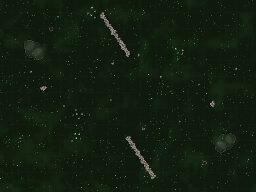
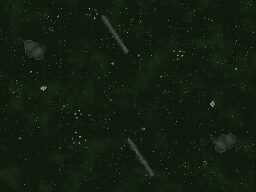
Ridges become walls, fire becomes a lever, Exodus Road becomes the first corridor

diff --git a/game.js b/game.js
@@ -608,6 +608,59 @@ const MAPS = {
     spires: [[W * 0.44, H * 0.33, 26], [W * 0.56, H * 0.67, 26], [W * 0.25, H * 0.55, 22]],
     pits: [[W * 0.20, H * 0.15, 32], [W * 0.80, H * 0.85, 32]],
   },
+  exodus: {
+    label: 'Exodus Road',
+    desc: 'One road through the drowned dark. Water walls, ridge bluffs, fields of fire — the only way out is along it.',
+    blurb: 'One artery through night swamp',
+    // roster map #12 (M12 "Exodus" — one long escort artery). The FIRST
+    // deliberately non-open map (2026-08-04, Bronson: "push the player
+    // specific directions"): a Z-shaped causeway is the ONLY ground route —
+    // water channels wall both sides, ridge bluffs double the worst stretches,
+    // and a flare line burns across the middle leg (thread the gaps or pay).
+    // Two elbows = two chokes; two pocket fields reward stepping off the road.
+    ground: { base: '#0b1210', mottle: 'rgba(90,140,120,0.02)', pebble: 'rgba(110,150,135,0.05)', grid: 'rgba(90,160,140,0.02)', hi: 'rgba(170,210,195,0.08)' },
+    pHQ: [W * 0.10, H * 0.84], pRax: [W * 0.16, H * 0.79], pPatch: [W * 0.15, H * 0.75],
+    eHQ: [W * 0.90, H * 0.12], eRax: [W * 0.84, H * 0.16], eFac: [W * 0.81, H * 0.10],
+    eSup: [[W * 0.94, H * 0.17], [W * 0.86, H * 0.07]], eTur: [[W * 0.85, H * 0.21], [W * 0.79, H * 0.14]],
+    eAir: [W * 0.93, H * 0.06],
+    ePatch: [W * 0.84, H * 0.20],
+    // the artery: SW -> east -> north -> northeast. Channels flank each leg;
+    // the gaps between channel segments are the pocket mouths, nothing else.
+    rivers: [
+      [W * 0.05, H * 0.93, W * 0.52, H * 0.89, 62],   // south bank, leg 1
+      [W * 0.12, H * 0.715, W * 0.235, H * 0.705, 58], // north bank leg 1, west half
+      [W * 0.315, H * 0.695, W * 0.44, H * 0.675, 58], // north bank leg 1, east half (gap = pocket A mouth)
+      [W * 0.385, H * 0.655, W * 0.415, H * 0.475, 60], // west wall, leg 2
+      [W * 0.60, H * 0.76, W * 0.615, H * 0.62, 60],  // east wall leg 2, south half
+      [W * 0.625, H * 0.52, W * 0.575, H * 0.44, 56], // east wall leg 2, north half (gap = pocket B mouth)
+      [W * 0.48, H * 0.30, W * 0.68, H * 0.175, 60],  // north wall, leg 3
+      [W * 0.63, H * 0.50, W * 0.83, H * 0.34, 62],   // south wall, leg 3
+      // corridor seals (found by the enforcement test — a raider walked the
+      // open west-middle and skipped elbow 1 entirely):
+      [W * 0.02, H * 0.52, W * 0.405, H * 0.48, 58],  // pocket A's north wall / west-middle seal (overlaps leg-2 west wall)
+      [W * 0.52, H * 0.135, W * 0.73, H * 0.095, 56], // north-lane seal above leg 3
+    ],
+    // ridge bluffs double the elbows — the new continuous-wall look up close
+    ridges: [
+      [W * 0.565, H * 0.875, W * 0.615, H * 0.77, 50], // elbow 1 outer corner (overlaps east wall)
+      [W * 0.30, H * 0.475, W * 0.42, H * 0.375, 48],  // elbow 2 outer corner
+      [W * 0.845, H * 0.325, W * 0.945, H * 0.255, 48], // eHQ southern approach (overlaps leg-3 wall)
+      [W * 0.055, H * 0.665, W * 0.145, H * 0.63, 44], // pHQ northern shoulder
+    ],
+    // the flare line: burning marsh gas across leg 2 — three fields with
+    // ~40px seams between them. Thread single-file, or eat VENT_DMG.
+    vents: [[W * 0.435, H * 0.555, 95], [W * 0.487, H * 0.545, 95], [W * 0.539, H * 0.555, 95]],
+    patches: [
+      { p: [W * 0.27, H * 0.585], n: 8, a: 2800, nests: [[W * 0.27 - 130, H * 0.585 - 110]] },  // pocket A
+      { p: [W * 0.665, H * 0.585], n: 8, a: 2800, nests: [[W * 0.665 + 130, H * 0.585 + 100]] }, // pocket B
+      { p: [W * 0.50, H * 0.415], n: 10, a: 3200, nests: [[W * 0.545, H * 0.395]] },             // elbow 2 mega
+    ],
+    roads: [[[W * 0.08, H * 0.84], [W * 0.46, H * 0.78], [W * 0.52, H * 0.42], [W * 0.88, H * 0.16]]],
+    flora: { blotch: 'rgba(60,110,90,0.45)', blotch2: 'rgba(4,10,8,0.6)', tuft: 'rgba(90,150,120,0.4)', bush: '#12281e', bushHi: '#1f3c2c', canopy: '#142e20', canopyHi: '#23422f', clumps: 110 },
+    groves: [[W * 0.22, H * 0.90, 90, 5], [W * 0.70, H * 0.66, 90, 5], [W * 0.60, H * 0.10, 85, 4]],
+    trees: [[W * 0.34, H * 0.86], [W * 0.44, H * 0.60], [W * 0.57, H * 0.34], [W * 0.20, H * 0.66], [W * 0.75, H * 0.42]],
+    pits: [[W * 0.31, H * 0.77, 30], [W * 0.66, H * 0.31, 30]],
+  },
 };
 
 // ---------------- Difficulty ----------------
@@ -1556,6 +1609,8 @@ let rocks = [];   // impassable terrain circles {x, y, r} — flyers ignore them
 // a death budget — once plotDeaths hits the cap, lethal hits ride survivors
 // down to a sliver instead of killing them. M7's finale brood loses exactly 4.
 let plotDeaths = {}, plotCaps = {};
+let vents = [];          // burning ground {x, y, r} — passable, damages ground units inside
+const VENT_DMG = 0.09;   // hp/tick (~5.4/s): crossing a flare field costs real blood, camping in one kills
 let nukes = [];          // inbound warheads {x, y, team, tier, t, max}
 let nukeTargeting = null;   // the silo currently picking a target
 const NUKE = {
@@ -2415,9 +2470,16 @@ function setup(mapKey) {
     const n = Math.max(1, Math.round(dist(x1, y1, x2, y2) / (r * 1.1)));
     for (let i = 0; i <= n; i++) {
       const t = i / n;
-      rocks.push({ x: x1 + (x2 - x1) * t, y: y1 + (y2 - y1) * t, r: r * (0.85 + Math.random() * 0.3) });
+      // ridge-tagged: collision as always, but paintRock skips them — the
+      // whole segment paints as ONE continuous elevated wall in paintRidges
+      // (2026-08-04, Bronson: "actual elevation, not little disks")
+      rocks.push({ x: x1 + (x2 - x1) * t, y: y1 + (y2 - y1) * t, r: r * (0.85 + Math.random() * 0.3), ridge: true });
     }
   }
+  // fire vents (2026-08-04): burning ground — passable, but ground units
+  // inside take VENT_DMG per tick. The level-design "soft wall": the shortcut
+  // you may take and pay for, vs cliffs/water you simply can't cross.
+  for (const [vx, vy, vr] of (M.vents || [])) vents.push({ x: vx, y: vy, r: vr });
   for (const [bx, by, br] of (M.boulders || [])) rocks.push({ x: bx, y: by, r: br });
   // water channels (2026-07-25, Blackwater Fen onward): chained circle
   // colliders on the ridge machinery — ground units can't cross, flyers
@@ -3701,6 +3763,17 @@ function drownSweep() {
       const fix = p.perp - Math.sign(p.perp) * PLANK_HUG;
       u.x += p.sa * fix; u.y -= p.ca * fix;
     }
+    // burning ground: flat DoT while inside a flare field (flyers soar over).
+    // No attacker, no retaliation target — the terrain itself is the enemy.
+    for (const v of vents) {
+      if (dist2(u.x, u.y, v.x, v.y) < v.r * v.r) {
+        u.hp -= VENT_DMG * armorMult(u);
+        if ((tick + u.id) % 24 === 0) {
+          fxs.push({ kind: 'spark', x: u.x + (Math.random() - 0.5) * 12, y: u.y - 6 - Math.random() * 8, t: 0, max: 14 });
+        }
+        break;
+      }
+    }
   }
 }
 
@@ -3970,6 +4043,7 @@ function aiSpotFree(type, wx, wy) {
   const cGap = d.w / 2 + (type === 'refinery' ? 65 : 26);
   for (const c of crystals) if (c.amount > 0 && dist2(wx, wy, c.x, c.y) < cGap ** 2) return false;
   for (const rk of rocks) if (Math.abs(wx - rk.x) < d.w / 2 + rk.r && Math.abs(wy - rk.y) < d.h / 2 + rk.r) return false;
+  for (const v of vents) if (dist2(wx, wy, v.x, v.y) < (v.r + d.w / 2) ** 2) return false;
   if (type === 'refinery' && !crystals.some(c => c.amount > 0 && dist2(wx, wy, c.x, c.y) < REFINERY_NEAR_CRYSTAL ** 2)) return false;
   return true;
 }
@@ -4571,6 +4645,8 @@ function canPlaceBuilding(type, wx, wy) {
     if (Math.abs(wx - b.x) < (b.w + d.w) / 2 + 10 && Math.abs(wy - b.y) < (b.h + d.h) / 2 + 10) return false;
   }
   for (const c of crystals) if (c.amount > 0 && dist2(wx, wy, c.x, c.y) < (d.w / 2 + 26) ** 2) return false;
+  // nothing gets built on burning ground
+  for (const v of vents) if (dist2(wx, wy, v.x, v.y) < (v.r + d.w / 2) ** 2) return false;
   // water buildings (hydro) invert the terrain rule: they stand ON a channel.
   // Water never blocks them; everything else still does; dry buildings still
   // reject water like any rock.
@@ -5083,8 +5159,127 @@ function paintTree(g, rk, flo) {
     g.beginPath(); g.arc(rk.x - rk.r * 0.22 + Math.cos(a) * rk.r * 0.28, rk.y - rk.r * 0.26 + Math.sin(a) * rk.r * 0.28, rk.r * 0.32, 0, Math.PI * 2); g.fill();
   }
 }
+// Ridges as ACTUAL ELEVATION (2026-08-04, Bronson: "not little disks"): each
+// authored segment paints as one continuous mesa wall — drop shadow downhill,
+// dark strata cliff faces, a sunlit cap running the crest, rim highlight on
+// the light side. Light convention matches the plateaus: from the north-west.
+function paintRidges(g, M) {
+  // deterministic hash noise — jagged, not sinusoidal (v1 read as a slug)
+  const hn = (s, i) => {
+    const v = Math.sin(s * 127.1 + i * 311.7) * 43758.545;
+    return v - Math.floor(v);
+  };
+  for (const [x1, y1, x2, y2, r] of ((M && M.ridges) || [])) {
+    const L = Math.max(1, dist(x1, y1, x2, y2));
+    const ax = (x2 - x1) / L, ay = (y2 - y1) / L;
+    const nx = -ay, ny = ax;
+    const seed = (x1 * 0.7 + y1 * 1.3) % 100;
+    const steps = Math.max(10, Math.round(L / 16));
+    // jagged width per step: coarse drift + per-step rock-tooth jitter,
+    // pinched to broken points at the ends
+    const wAt = (i, sign) => {
+      const t = i / steps;
+      const drift = 0.85 + 0.35 * hn(seed + sign * 7, Math.floor(i / 4));
+      const tooth = 0.75 + 0.5 * hn(seed + sign * 13, i);
+      const endPinch = Math.min(1, Math.min(i, steps - i) / 2.2);
+      return r * drift * tooth * Math.max(0.15, endPinch);
+    };
+    const pt = (i, sign, wMul, ox, oy) => {
+      const t = i / steps;
+      return [x1 + (x2 - x1) * t + nx * sign * wAt(i, sign) * wMul + (ox || 0),
+              y1 + (y2 - y1) * t + ny * sign * wAt(i, sign) * wMul + (oy || 0)];
+    };
+    const band = (wMul, ox, oy) => {
+      g.beginPath();
+      let p = pt(0, 1, wMul, ox, oy); g.moveTo(p[0], p[1]);
+      for (let i = 1; i <= steps; i++) { p = pt(i, 1, wMul, ox, oy); g.lineTo(p[0], p[1]); }
+      for (let i = steps; i >= 0; i--) { p = pt(i, -1, wMul, ox, oy); g.lineTo(p[0], p[1]); }
+      g.closePath();
+    };
+    // settling shadow downhill
+    g.fillStyle = 'rgba(0,0,0,0.28)';
+    band(1.05, 8, 12); g.fill();
+    // dark rock mass — the cliff faces ARE this silhouette's edges
+    g.fillStyle = '#252b25';
+    band(1.0, 0, 0); g.fill();
+    // faceted rock top: irregular angular slabs along the crest, two lit
+    // tones alternating, each slab its own quad — no continuous stripe
+    for (let i = 0; i < steps; i += 2) {
+      const skew = (hn(seed + 3, i) - 0.5) * 8;
+      const a0 = pt(i, 1, 0.55, -3 + skew, -5);
+      const a1 = pt(Math.min(i + 2, steps), 1, 0.5, 3 + skew, -6);
+      const b1 = pt(Math.min(i + 2, steps), -1, 0.45, skew, -4);
+      const b0 = pt(i, -1, 0.5, -2 + skew, -3);
+      g.fillStyle = hn(seed + 5, i) > 0.5 ? '#3d443b' : '#474f44';
+      g.beginPath();
+      g.moveTo(a0[0], a0[1]); g.lineTo(a1[0], a1[1]); g.lineTo(b1[0], b1[1]); g.lineTo(b0[0], b0[1]);
+      g.closePath(); g.fill();
+      // occasional brighter chip catching the light
+      if (hn(seed + 9, i) > 0.72) {
+        const c = pt(i + 1, 1, 0.28, skew, -7);
+        g.fillStyle = '#565e51';
+        g.beginPath();
+        g.moveTo(c[0], c[1]); g.lineTo(c[0] + 9 + skew, c[1] - 4); g.lineTo(c[0] + 3, c[1] + 6);
+        g.closePath(); g.fill();
+      }
+    }
+    // cracks: clustered, angled, varied — not ruler ticks
+    g.lineCap = 'round';
+    for (let i = 1; i < steps; i++) {
+      if (hn(seed + 21, i) < 0.45) continue;
+      const sign = hn(seed + 23, i) > 0.4 ? 1 : -1;   // more on the shadow side
+      const base = pt(i, sign, 0.55, 0, 0);
+      const out = pt(i, sign, 0.98, (hn(seed + 27, i) - 0.5) * 14, (hn(seed + 29, i) - 0.5) * 10);
+      g.strokeStyle = `rgba(0,0,0,${0.2 + hn(seed + 31, i) * 0.18})`;
+      g.lineWidth = 1.5 + hn(seed + 33, i) * 1.8;
+      g.beginPath(); g.moveTo(base[0], base[1]); g.lineTo(out[0], out[1]); g.stroke();
+    }
+    // talus: broken boulders scattered along the shadow foot
+    for (let i = 2; i < steps - 2; i += 3) {
+      if (hn(seed + 41, i) < 0.5) continue;
+      const f = pt(i, 1, 1.12, (hn(seed + 43, i) - 0.5) * 16, 6 + hn(seed + 47, i) * 8);
+      const br = 3 + hn(seed + 51, i) * 5;
+      g.fillStyle = '#2e352d';
+      g.beginPath(); g.arc(f[0], f[1], br, 0, Math.PI * 2); g.fill();
+      g.fillStyle = '#3a423a';
+      g.beginPath(); g.arc(f[0] - br * 0.3, f[1] - br * 0.35, br * 0.55, 0, Math.PI * 2); g.fill();
+    }
+  }
+}
+// Burning ground (MAPS.vents): scorched earth + glowing fissures baked into
+// the pre-render; the living flicker is drawn per-frame in drawVents.
+function paintVents(g, M) {
+  for (const [vx, vy, vr] of ((M && M.vents) || [])) {
+    const grad = g.createRadialGradient(vx, vy, vr * 0.1, vx, vy, vr * 1.25);
+    grad.addColorStop(0, 'rgba(12,8,6,0.85)');
+    grad.addColorStop(0.7, 'rgba(18,12,8,0.55)');
+    grad.addColorStop(1, 'rgba(20,14,10,0)');
+    g.fillStyle = grad;
+    g.beginPath(); g.arc(vx, vy, vr * 1.25, 0, Math.PI * 2); g.fill();
+    // fissures: jagged radial cracks that stay lit under the runtime glow
+    const seed = (vx * 0.017 + vy * 0.013) % 6.28;
+    g.lineCap = 'round';
+    for (let i = 0; i < 7; i++) {
+      const a = seed + (i / 7) * Math.PI * 2 + Math.sin(seed + i) * 0.4;
+      const len = vr * (0.45 + ((seed * (i + 3)) % 1) * 0.5);
+      let px = vx + Math.cos(a) * vr * 0.12, py = vy + Math.sin(a) * vr * 0.12;
+      g.strokeStyle = i % 2 ? '#c25a20' : '#e07828';
+      g.lineWidth = 2.5 + (i % 3);
+      g.beginPath(); g.moveTo(px, py);
+      for (let s = 1; s <= 3; s++) {
+        const ja = a + Math.sin(seed * 3 + i * 2 + s) * 0.55;
+        px += Math.cos(ja) * len / 3; py += Math.sin(ja) * len / 3;
+        g.lineTo(px, py);
+      }
+      g.stroke();
+    }
+    g.fillStyle = '#f0a040';
+    g.beginPath(); g.arc(vx, vy, vr * 0.10, 0, Math.PI * 2); g.fill();
+  }
+}
 function paintRock(g, rk, flo) {
   if (rk.water) return;   // water colliders are invisible — the band is painted in paintGround
+  if (rk.ridge) return;   // ridge chains paint as one continuous wall in paintRidges
   if (rk.tree) return paintTree(g, rk, flo || {});
   if (rk.cliff) {
     // scarp band: round-capped tangential strokes so the chained slabs read
@@ -5472,6 +5667,8 @@ function paintGround(M) {
       hillBlob(px, py, pr * 0.8, 0.09); g.stroke();
     }
   }
+  paintRidges(g, M);
+  paintVents(g, M);
   for (const rk of rocks) paintRock(g, rk, flo);
 }
 paintGround();   // pre-menu backdrop; setup() repaints with the map's terrain
@@ -6953,6 +7150,27 @@ function drawFx(f) {
 // static band alone read as "a road" (playtest 2026-07-25). Two dash streams
 // per segment slide along the flow at different speeds; a slow counter-drift
 // glint sells the current. Cheap: a few strokes per visible segment.
+// The living half of a flare field: pulsing glow + drifting embers over the
+// baked scorch/fissures. Deterministic from tick — no allocations per frame.
+function drawVents(vx, vy, vw, vh) {
+  for (const v of vents) {
+    if (v.x + v.r < vx || v.x - v.r > vx + vw || v.y + v.r < vy || v.y - v.r > vy + vh) continue;
+    const pulse = 0.5 + 0.5 * Math.sin(tick * 0.045 + v.x * 0.01);
+    const grad = cx.createRadialGradient(v.x, v.y, 0, v.x, v.y, v.r * (0.9 + pulse * 0.25));
+    grad.addColorStop(0, `rgba(240,140,50,${0.16 + pulse * 0.12})`);
+    grad.addColorStop(1, 'rgba(240,120,40,0)');
+    cx.fillStyle = grad;
+    cx.beginPath(); cx.arc(v.x, v.y, v.r * 1.15, 0, Math.PI * 2); cx.fill();
+    // three embers per vent, looping upward on staggered clocks
+    for (let i = 0; i < 3; i++) {
+      const ph = ((tick * (0.011 + i * 0.004) + i * 0.37 + v.y * 0.01) % 1);
+      const ex = v.x + Math.sin(v.x * 0.1 + i * 2.4 + ph * 5) * v.r * 0.4;
+      const ey = v.y - ph * v.r * 0.9;
+      cx.fillStyle = `rgba(250,${150 + i * 25},60,${(1 - ph) * 0.7})`;
+      cx.beginPath(); cx.arc(ex, ey, 1.6 + (1 - ph) * 1.4, 0, Math.PI * 2); cx.fill();
+    }
+  }
+}
 function drawRivers(vx, vy, vw, vh) {
   const rivers = (groundM && groundM.rivers) || [];
   if (!rivers.length) return;
@@ -7090,6 +7308,7 @@ function render() {
   const inView = (x, y, m) => x > vx - m && x < vx + vw + m && y > vy - m && y < vy + vh + m;
   cx.drawImage(groundCv, vx, vy, vw, vh, vx, vy, vw, vh);
   drawRivers(vx, vy, vw, vh);
+  drawVents(vx, vy, vw, vh);
   for (const c of crystals) if (inView(c.x, c.y, 40) && isShownAt(c.x, c.y)) drawCrystal(c);
   for (const e of eggs) if (inView(e.x, e.y, 30) && isShownAt(e.x, e.y)) drawEgg(e);
   for (const b of buildings) if (inView(b.x, b.y, 130) && (b.team === 1 || isShownAt(b.x, b.y))) drawBuilding(b);
@@ -7253,6 +7472,10 @@ function renderMinimap() {
     mcx.fillStyle = rk.water ? '#123339' : rk.tree ? (rk.dead ? '#4a4f58' : '#31502e')
       : rk.spire ? '#3f6a63' : rk.bone ? '#8a8674' : rk.pit ? '#101410' : '#3d443d';
     mcx.beginPath(); mcx.arc(rk.x * sx, rk.y * sy, Math.max(1.5, rk.r * sx), 0, Math.PI * 2); mcx.fill();
+  }
+  for (const v of vents) {   // burning ground reads ember-orange
+    mcx.fillStyle = tick % 50 < 30 ? '#b04a18' : '#d06a20';
+    mcx.beginPath(); mcx.arc(v.x * sx, v.y * sy, Math.max(1.5, v.r * sx * 0.8), 0, Math.PI * 2); mcx.fill();
   }
   for (const b of buildings) {
     if (b.team !== 1 && !isShownAt(b.x, b.y)) continue;
@@ -8331,7 +8554,7 @@ document.getElementById('btn-deploy').addEventListener('click', () => {
 function resetWorld() {
   units = []; buildings = []; crystals = []; bullets = []; fxs = []; eggs = []; alerts = []; rocks = [];
   nukes = []; nukeTargeting = null;
-  plotDeaths = {}; plotCaps = {};
+  plotDeaths = {}; plotCaps = {}; vents = [];
   blocked.fill(0);
   lastAlert = -1e9;
   stats = { built: 0, lost: 0, kills: 0, mined: 0 };

diff --git a/CLAUDE.md b/CLAUDE.md
@@ -35,7 +35,7 @@ A tiny browser RTS in the spirit of Command & Conquer / StarCraft 2, built for a
 
 ## Game snapshot (as of 2026-07-09)
 
-- **WORLD RESIZED +50%: 144×108 tiles / 4608×3456 px (2026-08-04, Bronson: "maps need to increase by 50%" — lands almost exactly on Brood War's standard 128×128 scale and serves the 20–30-min match goal).** Third size in the project's history (64×48 → 96×72 → 144×108). Two-part migration, NEVER split: (1) MAP_W/MAP_H constants — all MAPS layouts are W/H-relative and rescaled free; (2) **every absolute px coordinate in MISSIONS ×1.5** via scripted regex over the block (patterns: `at/to/mark/focus/start/egg: [N,N]`, `near: [N,N,N]` incl. radius — route-corridor scale, `x: N, y: N` objective pairs, mission `patches` and M5's absolute `fields` p:). ~203 coordinate groups. Radii/leashes/sights/standoffs are GAMEPLAY-scale and deliberately unscaled; objective r values unscaled (targets sit at circle centers). A* guard 40000→90000 (2.25× the cells). Verified same night: 11/11 base-to-base crossings (tanks detour fen/hwm/mine water+terraces, zero water contact), dam placeable on the rescaled hwm channel (10/11 probed rocks; GOTCHA: canPlaceBuilding signature is (type,wx,wy) — no team arg — and it enforces tech + cost + scouted corners, so probe with devMode ON + crystals granted + vision stamped), M1–M3 soaks, M4 full build-chain + surges, M5/M7/M8/M9 full chains (M7 twin dens land at scaled [4140,1770]/[1995,1728] both dry; M9 beats at y 2250/930/645/315 + LZ [2304,3225]), M6 silo latch + expiry lose, basin-hard 9k + fen-hard 7k soaks (0 drowned, no NaN), zero console errors. Thumbnails regenerated. Base-to-base now 3056–5173px (was ~2000–3450). PACING NOT YET PLAYTESTED — economy round-trips and wave travel times all lengthened; Bronson's next skirmish run is the acceptance test, and wave cadence/patch sizes are the knobs if it drags. — 4th cast member + hero commando (2026-08-04, Bronson's ask: male, quiet-leader callsign; a woman operator is banked for the commando DLC).** CAST `cdo` (MSGT. BOONE, moss-green, monogram B; portrait slot assets/portraits/cdo.png — prompt + voice brief appended to PORTRAITS.md). **THE CHARACTER RULE: he barely speaks — one short sentence at most, flat calm, and only when it matters** (Vega's intro line carries the thesis: "He does not say much. He does not need to."). `UNIT.commando` hero (hp 160, dmg 16, sight 280, speed 2.0, cost/supply 0, NOT in any trains list — mission-granted; the DLC gets the buildable version). Art: drawUnitSprite aliases commando→marine art (walk frames included) until unit_commando slots land — his own art wins the moment it exists; drawUnitDecor gives him upright gold master-sergeant chevrons meanwhile. Leads BOTH commando missions: M5 + M9 spawn him in group 'boone' with a `groupBelow ['boone',1]` lose trigger each (hero dies = mission fails, C&C commando rule). M9 gave him the ground voice (camp-edge "the street is theirs", first-contact "Rockets up. Watch the lanes.", outro "It let us leave."); M5 got the brief intro + LZ line ("Light's on. Everybody home."). Verified: both missions spawn him, M9 full chain with him alive, hero-death loses both, no commando leak into skirmish, zero console errors (the 404 burst on mission load is his unvoiced `cdo_*` voice probes — designed fallback). NOTE: regenerate voice-script.tsv before Bronson's next voice batch (new speaker + M9 lines shift per-speaker row numbering); Boone needs an ElevenLabs voice pick (brief in PORTRAITS.md).
+- **Ridges are WALLS now, fire is a level lever, and Exodus Road is the first corridor map (2026-08-04 night, Bronson: "actual elevation, not little disks" + "push the player specific directions").** (1) **paintRidges**: ridge segments paint as ONE continuous mesa wall each (hash-noise jagged edges, faceted rock top slabs, clustered cracks, talus boulders at the shadow foot, downhill drop shadow) — ridge-tagged rocks are skipped by paintRock. V1 (smooth sine band + ruler-tick strata) shipped for ~10 minutes and Bronson's live "wtf is this?" was correct — it read as a slug/highway; the v2 rewrite is the keeper pattern: jagged hash noise over smooth sine, faceted patches over continuous bands. (2) **Fire vents** (`MAPS.vents: [[x,y,r]]`): passable burning ground — ground units inside take VENT_DMG 0.09/tick (flyers immune), no placement on them (canPlaceBuilding + aiSpotFree), baked scorch + glowing fissures in paintGround, pulsing glow + drifting embers per-frame in drawVents, ember-orange minimap dots. The level-design SOFT wall: shortcuts you pay for in blood. (3) **MAPS.exodus "Exodus Road"** (roster #12, M12's home): night-swamp palette, a Z-shaped causeway artery SW→NE walled by water channels + ridge bluffs, two elbow chokes (elbow-2 holds the mega field + nest), two pocket fields off the road, a 3-vent flare line across the middle leg (thread the ~40px seams, hug the east lane, or burn), the exodus road polyline running the full artery. **CORRIDOR-SEALING METHOD (the lesson): author walls, then run the enforcement test — a corner-to-corner raider whose trail must pass BOTH elbows and no cut regions.** Took 3 rounds: first run cut the open west-middle (pocket-A north unsealed), second still threaded a ~200px seam between the seal channel and leg-2's west wall (fix: overlap them; near-touching endpoints always leak). Verified: corridor enforced, both pockets reachable, vent burn 10.8hp/2s on marines + 0 on flyers, AI base functions on the map, 7k soak clean, zero console errors. Thumbnails ×12 regenerated. 144×108 tiles / 4608×3456 px (2026-08-04, Bronson: "maps need to increase by 50%" — lands almost exactly on Brood War's standard 128×128 scale and serves the 20–30-min match goal).** Third size in the project's history (64×48 → 96×72 → 144×108). Two-part migration, NEVER split: (1) MAP_W/MAP_H constants — all MAPS layouts are W/H-relative and rescaled free; (2) **every absolute px coordinate in MISSIONS ×1.5** via scripted regex over the block (patterns: `at/to/mark/focus/start/egg: [N,N]`, `near: [N,N,N]` incl. radius — route-corridor scale, `x: N, y: N` objective pairs, mission `patches` and M5's absolute `fields` p:). ~203 coordinate groups. Radii/leashes/sights/standoffs are GAMEPLAY-scale and deliberately unscaled; objective r values unscaled (targets sit at circle centers). A* guard 40000→90000 (2.25× the cells). Verified same night: 11/11 base-to-base crossings (tanks detour fen/hwm/mine water+terraces, zero water contact), dam placeable on the rescaled hwm channel (10/11 probed rocks; GOTCHA: canPlaceBuilding signature is (type,wx,wy) — no team arg — and it enforces tech + cost + scouted corners, so probe with devMode ON + crystals granted + vision stamped), M1–M3 soaks, M4 full build-chain + surges, M5/M7/M8/M9 full chains (M7 twin dens land at scaled [4140,1770]/[1995,1728] both dry; M9 beats at y 2250/930/645/315 + LZ [2304,3225]), M6 silo latch + expiry lose, basin-hard 9k + fen-hard 7k soaks (0 drowned, no NaN), zero console errors. Thumbnails regenerated. Base-to-base now 3056–5173px (was ~2000–3450). PACING NOT YET PLAYTESTED — economy round-trips and wave travel times all lengthened; Bronson's next skirmish run is the acceptance test, and wave cadence/patch sizes are the knobs if it drags. — 4th cast member + hero commando (2026-08-04, Bronson's ask: male, quiet-leader callsign; a woman operator is banked for the commando DLC).** CAST `cdo` (MSGT. BOONE, moss-green, monogram B; portrait slot assets/portraits/cdo.png — prompt + voice brief appended to PORTRAITS.md). **THE CHARACTER RULE: he barely speaks — one short sentence at most, flat calm, and only when it matters** (Vega's intro line carries the thesis: "He does not say much. He does not need to."). `UNIT.commando` hero (hp 160, dmg 16, sight 280, speed 2.0, cost/supply 0, NOT in any trains list — mission-granted; the DLC gets the buildable version). Art: drawUnitSprite aliases commando→marine art (walk frames included) until unit_commando slots land — his own art wins the moment it exists; drawUnitDecor gives him upright gold master-sergeant chevrons meanwhile. Leads BOTH commando missions: M5 + M9 spawn him in group 'boone' with a `groupBelow ['boone',1]` lose trigger each (hero dies = mission fails, C&C commando rule). M9 gave him the ground voice (camp-edge "the street is theirs", first-contact "Rockets up. Watch the lanes.", outro "It let us leave."); M5 got the brief intro + LZ line ("Light's on. Everybody home."). Verified: both missions spawn him, M9 full chain with him alive, hero-death loses both, no commando leak into skirmish, zero console errors (the 404 burst on mission load is his unvoiced `cdo_*` voice probes — designed fallback). NOTE: regenerate voice-script.tsv before Bronson's next voice batch (new speaker + M9 lines shift per-speaker row numbering); Boone needs an ElevenLabs voice pick (brief in PORTRAITS.md).
 - **Support units ignore attack commands + M5 secondary cut (2026-08-01, Bronson playtest round 2 same day).** (1) **`isSupport(u)` (medic/engineer, next to isCombat)** — keyed by TYPE, not dmg, because the engineer carries a token `dmg: 2` melee poke that slipped it past every `dmg <= 0` guard (medics held, engineers charged). Three gaps closed: commandMove now routes support through 'attackmove' on A-move (plain 'move' beelined them THROUGH the firing line to the destination — the Jul 29 standoff branch was unreachable from the A-move command path), commandAttack skips support entirely (right-clicked enemies used to send engineers on a 22px-poke chase), and the attackmove standoff branch takes `dmg <= 0 || isSupport` so engineers hold at SUPPORT_STANDOFF (190) behind the escorts. Explicit right-click repair (commandRepair) and idle auto-repair/heal untouched. Verified: A-move past enemies = both hold ~380px behind the marines (medic auto-heals from there), squad right-click = marines attack while support ignores it. (2) **M5's optional fuel-dump objective CUT same day it shipped** (Bronson: "kill the secondary mission" — the difficulty pass alone landed where he wanted). Dump building, cache objective, valve triggers, and Lin's two dump lines all removed; the destroy pre-latch pass STAYS (generic, protects the M6 fix). Exfil pursuit is one fixed cadence now. East-bank picket guards kept. **Round 3 (same day, Bronson: "a bit less difficult"):** relay screens trimmed 3→2 marines each (16 Rubicon troops, from 22 — snipers/rockets kept, they're the posts' identity), patrol 80s/n3→95s/n2, post-relay sweep 70s/n3→85s/n2, LZ platoon 4→3 marines + sniper, pursuit marines 50s→60s + raiders 70s→85s. The difficulty ladder that landed: 11 troops = <4-min speedrun, 22 = too hard, 16 + softer cadences = the shipping shape (pending his verdict). Full M5 chain + skirmish re-verified each round, zero console errors.
 - **M5 difficulty pass + objective UX + won-is-won (2026-08-01, Bronson speedran Ghost Survey in <4 min and hung on an unmarked relay).** (1) **groupDead objectives now show a kill count** ("3/4" in the HUD via objProgress reading the group's fixed roster) and **their beacons track SURVIVORS** — `objMarks(o)` returns living group members' positions for groupDead objectives with a mark (world beacons + minimap rings both use it); the authored `mark` is only the pre-spawn fallback, and no-mark objectives stay unmarked (M1's reprisal must not leak positions). Root cause of the playtest hang: the only beacon pulsed forever over the FIRST relay's rubble while the 4th sat in fog. (2) **M5 rebalance**: every relay properly garrisoned (marine screens + a sniper or rocket each, 22 Rubicon troops total, was 11), wild spitter guard packs at the center field + SE bank (guards, NOT nests — the no-nests-on-the-causeway rule stands), patrol/sweep cadences tightened, and Krauss's promised platoon actually LANDS on the east LZ (4 marines + sniper) when the lab falls. (3) **Optional objective machinery proven**: 'cache' (torch the fuel dump, `destroy` type, NOT in winWhen) gates the exfil pursuit between a heavy cadence (45s/60s waves) and a light one (95s) via done/notDone trigger pairs — the optional IS the valve. (4) **destroy pre-latch**: objMet now runs a seen-latch pass for ALL undone destroy objectives each missionUpdate tick, so a target razed BEFORE its objective reveals still counts (the M6 tick-0 false-complete fix is preserved — a target that never existed never latches). (5) **Won is won**: once `ms.outroDone` is set (all winWhen objectives done), NO defeat path may fire — trigger `lose`, deadline `onExpire:'lose'`, and checkEnd's HQ-loss/noBase-last-unit rules all guard on it. Found live: M5's exfil latched, outro playing, LZ garrison gunned down a straggler → MISSION FAILED mid-victory-speech. Verified: full M5 chain incl. total squad wipe during the outro still completing, cache valve both intensities, M6 deadline expiry still losing + silo not auto-done, M1 + skirmish soaks clean. GOTCHA for tests: CC.startMission leaves the help modal open (`paused` true) and syncVoicePause freezes voiced clips — a voiced outro line then NEVER releases and the win drain guard blocks forever; close the help modal before stepping to a win. Map size is engine-global (96×72 tiles) — "make the map bigger" per-mission is not a lever; route density is.
 
